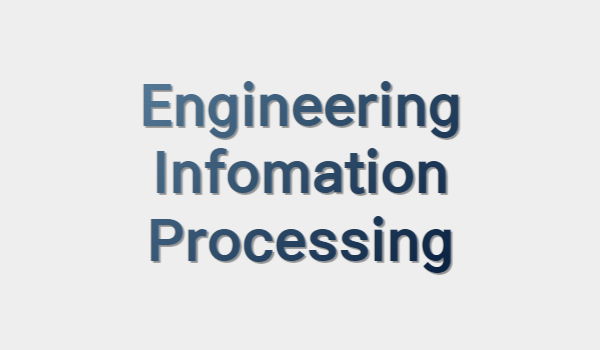
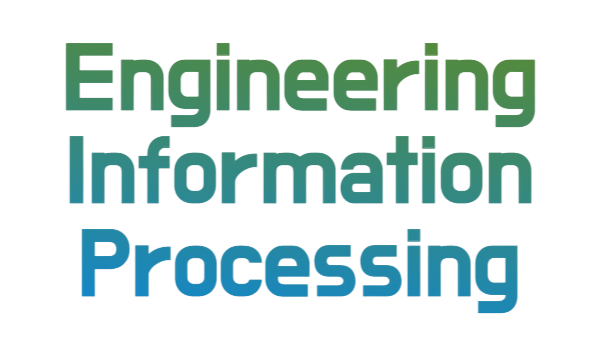
post 폰트, thumnail 변경, post 오타 수정

Changed region(s): [[0.09, 0.1143, 0.9, 0.9143]]

diff --git a/_sass/minimal-mistakes/_variables.scss b/_sass/minimal-mistakes/_variables.scss
@@ -20,11 +20,10 @@ $monospace: "Nanum Gothic Coding", Monaco, Consolas, "Lucida Console", monospace
 $myfont_grid_title: "NEXON Lv1 Gothic OTF" !default;
 $myfont_title: "GowunBatang-Regular" !default;
 $myfont_main_title: "Ycomputer-Regular" !default; //set main.scss
-$myfont_post: "SUIT-Regular" !default;  
+$myfont_post: "GowunDodum-Regular" !default;  
 $myfont_recent: "Ycomputer-Regular" !default;
 $myfont: "Cafe24SsurroundAir" !default; //set main.scss
 $myfont_a1: "GothicA1-Light" !default; //set main.scss
-$myfont_go: "Gowun Batang" !default;
 $cursive: "Cafe24Shiningstar" !default;
 
 /* sans serif typefaces */

diff --git a/assets/css/main.scss b/assets/css/main.scss
@@ -71,10 +71,3 @@ search: false
     font-weight: normal;
     font-style: normal;
 }
-
-@font-face {
-    font-family: 'SUIT-Regular';
-    src: url('https://cdn.jsdelivr.net/gh/projectnoonnu/noonfonts_suit@1.0/SUIT-Regular.woff2') format('woff2');
-    font-weight: normal;
-    font-style: normal;
-}

diff --git a/assets/css/main2.scss b/assets/css/main2.scss
@@ -70,10 +70,3 @@
     font-weight: normal;
     font-style: normal;
 }
-
-@font-face {
-    font-family: 'SUIT-Regular';
-    src: url('https://cdn.jsdelivr.net/gh/projectnoonnu/noonfonts_suit@1.0/SUIT-Regular.woff2') format('woff2');
-    font-weight: normal;
-    font-style: normal;
-}

diff --git a/_sass/minimal-mistakes/_page.scss b/_sass/minimal-mistakes/_page.scss
@@ -470,7 +470,7 @@ body {
     color: inherit;
     text-decoration: none;
     border-bottom: 2px solid $border-color;
-    font-family: $myfont_go;
+    font-family: $myfont_title;
     font-size: $type-size-4;
     color: $text-color;
   }

diff --git a/_sass/minimal-mistakes/_archive.scss b/_sass/minimal-mistakes/_archive.scss
@@ -106,7 +106,7 @@
   background-color: mix(rgb(122, 122, 122), $background-color, 10%);
   backdrop-filter: blur(10px);
   width: 100%;  //높이 비율 고정
-  max-height: 9em;
+  max-height: 10em;
 
   img {
     margin: auto;

diff --git a/_posts/network/2022-05-13-network-01.md b/_posts/network/2022-05-13-network-01.md
@@ -18,7 +18,7 @@ header:
 
 ## 네트워크의 이해
 1. Network의 정의 
-    - 장비들을 특정 매체(Media)를 통해 `연결` 시켜 `공유` 할 수 있는 황경을 만들어 주는 것
+    - 장비들을 특정 매체(Media)를 통해 `연결` 시켜 `공유` 할 수 있는 환경을 만들어 주는 것
 2. Network의 목적
     - 정보공유
     - 하드웨어 및 소프트웨어 공유

diff --git a/_posts/java/2022-10-31-example_02.md b/_posts/java/2022-10-31-example_02.md
@@ -13,7 +13,7 @@ sidebar:
 header:
   overlay_image: assets/images/header_post_1.jpg
   overlay_filter: 0.5 
-  teaser: assets/images/java.png
+  teaser: assets/images/this_is_java.png
 ---
 
 # 이것이 자바다 2장 확인문제  

diff --git a/_posts/java/2022-11-02-example_03.md b/_posts/java/2022-11-02-example_03.md
@@ -13,7 +13,7 @@ sidebar:
 header:
   overlay_image: assets/images/header_post_1.jpg
   overlay_filter: 0.5 
-  teaser: assets/images/java.png
+  teaser: assets/images/this_is_java.png
 ---
 
 # 이것이 자바다 3장 확인문제  

diff --git a/_posts/java/2022-11-04-example_04.md b/_posts/java/2022-11-04-example_04.md
@@ -13,7 +13,7 @@ sidebar:
 header:
   overlay_image: assets/images/header_post_1.jpg
   overlay_filter: 0.5 
-  teaser: assets/images/java.png
+  teaser: assets/images/this_is_java.png
 ---
 
 # 이것이 자바다 4장 확인문제  

diff --git a/_posts/java/2022-10-27-exanple_01.md b/_posts/java/2022-10-27-exanple_01.md
@@ -13,7 +13,7 @@ sidebar:
 header:
   overlay_image: assets/images/header_post_1.jpg
   overlay_filter: 0.5 
-  teaser: assets/images/java.png
+  teaser: assets/images/this_is_java.png
 ---
 
 # 이것이 자바다 1장 확인문제

diff --git a/_posts/java/2022-11-13-example_05.md b/_posts/java/2022-11-13-example_05.md
@@ -13,7 +13,7 @@ sidebar:
 header:
   overlay_image: assets/images/header_post_1.jpg
   overlay_filter: 0.5 
-  teaser: assets/images/java.png
+  teaser: assets/images/this_is_java.png
 ---
 
 # 이것이 자바다 5장 확인문제
